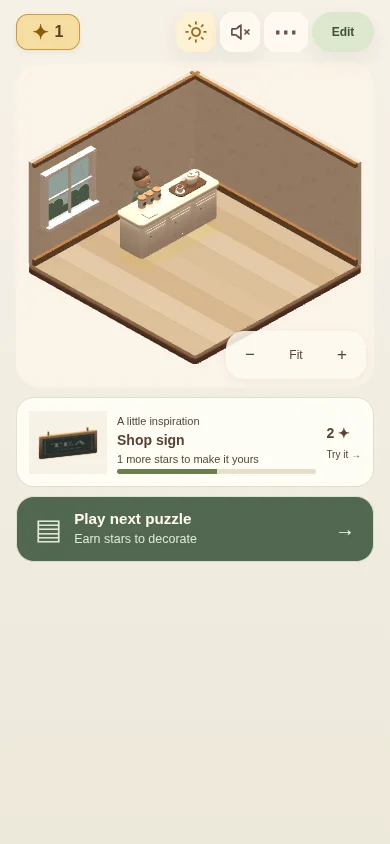
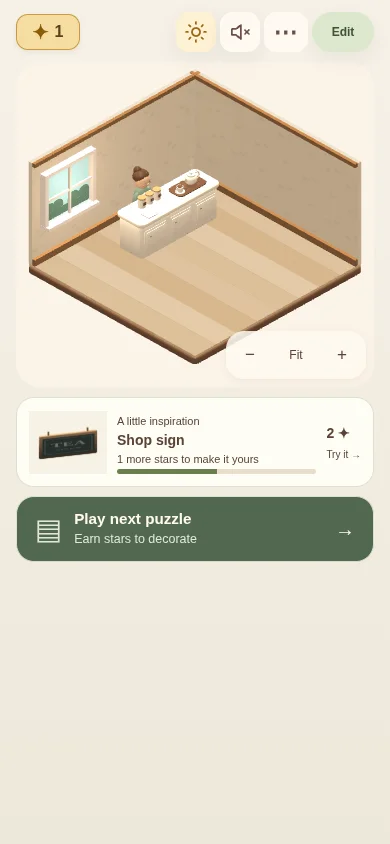
feat: finish keeper idle and cozy room lighting (0.2.2-preview.2)

diff --git a/src/shop/diorama.ts b/src/shop/diorama.ts
@@ -1,3 +1,4 @@
+import { animateEditionKeeper } from "./edition-art";
 import { isSecondEdition } from "../game/mode";
 import { StandardMaterial } from "@babylonjs/core/Materials/standardMaterial";
 import { Engine } from "@babylonjs/core/Engines/engine";
@@ -226,7 +227,12 @@ export class Diorama {
         material.emissiveColor = Color3.FromHexString(C.gold).scale(night ? 0.65 : 0.22);
       }
     }
-    this.windowLight.intensity = night ? 0.85 : 0;
+    this.windowLight.intensity = isSecondEdition ? (night ? 0.52 : 0.32) : night ? 0.85 : 0;
+    if (isSecondEdition) {
+      this.windowLight.diffuse = Color3.FromHexString(night ? "#b3c7ed" : "#ffe8c6");
+      this.hemi.groundColor = Color3.FromHexString(night ? "#535568" : "#b7a28e");
+      this.shadows.setDarkness(night ? 0.58 : 0.68);
+    }
     this.sun.diffuse = Color3.FromHexString(night ? "#9aafe0" : "#ffedc7");
     this.updateLamp();
   }
@@ -570,6 +576,7 @@ export class Diorama {
     if (this.tweens.length || this.walk) this.lampShadowsDirty = true;
     this.elapsed += dt;
     this.tickTraffic(dt);
+    if (isSecondEdition && this.customer) animateEditionKeeper(this.customer,this.elapsed,!this.edit && !this.reducedMotion.matches && !document.hidden && this.customer.isEnabled());
     for (const mesh of this.steam) {
       mesh.setEnabled(!this.reducedMotion.matches);
       if (this.reducedMotion.matches) continue;
@@ -610,9 +617,9 @@ export class Diorama {
 
     const wantWarm = this.shop.finaleSeen || Boolean(this.walk) || shopComplete(this.shop) ? 1 : this.shop.owned.includes("lamp") ? 0.35 : 0;
     this.warm += (wantWarm - this.warm) * Math.min(1, dt * 1.4);
-    this.hemi.intensity = this.night ? 0.52 : 0.72 + this.warm * 0.16;
-    this.sun.intensity = this.night ? 0.22 : 0.70 + this.warm * 0.12;
-    this.hemi.diffuse = this.night ? new Color3(0.72, 0.79, 1) : Color3.Lerp(new Color3(1, 0.9, 0.82), new Color3(1, 0.86, 0.7), this.warm);
+    this.hemi.intensity = isSecondEdition ? (this.night ? 0.57 : 0.88 + this.warm * 0.08) : this.night ? 0.52 : 0.72 + this.warm * 0.16;
+    this.sun.intensity = isSecondEdition ? (this.night ? 0.18 : 0.62 + this.warm * 0.08) : this.night ? 0.22 : 0.70 + this.warm * 0.12;
+    this.hemi.diffuse = isSecondEdition ? Color3.FromHexString(this.night ? "#bbc8e6" : "#fff0dc") : this.night ? new Color3(0.72, 0.79, 1) : Color3.Lerp(new Color3(1, 0.9, 0.82), new Color3(1, 0.86, 0.7), this.warm);
     this.updateLamp();
     this.scene.render();
   }

diff --git a/src/shop/edition-art.ts b/src/shop/edition-art.ts
@@ -110,7 +110,14 @@ export function buildEditionKeeper(scene:Scene):TransformNode{
  soft(scene,'apron',root,cream,.28,.43,.06,.04,0,.64,.18);soft(scene,'apron-pocket',root,coat,.13,.1,.018,.015,0,.6,.218);
  for(const x of [-.22,.22]){const a=orb(scene,'sleeve',root,coat,.09,x,.7,.03,.8,1.8,.85);a.rotation.z=x<0?-.3:.3;orb(scene,'hand',root,skin,.065,x,.53,.09);}
  const eyes=mat(scene,'eyes',E.ink),cheek=mat(scene,'cheek','#d9917c');for(const x of [-.065,.065])orb(scene,'eye',root,eyes,.016,x,1.13,.19,.7,1,.4);for(const x of [-.12,.12])orb(scene,'cheek',root,cheek,.032,x,1.075,.166,1,.55,.25);
- orb(scene,'nose',root,skin,.025,0,1.09,.205);root.scaling.setAll(1.12);return root;
+ orb(scene,'nose',root,skin,.025,0,1.09,.205);
+ const headRig=new TransformNode('keeper-head-idle',scene);headRig.parent=root;headRig.position.y=1;
+ const faceNames=new Set(['head','hair-cap','hair-bun','eye','cheek','nose']);
+ const eyeMeshes=root.getChildMeshes().filter(mesh=>mesh.name==='eye');
+ for(const mesh of root.getChildMeshes())if(faceNames.has(mesh.name)){mesh.parent=headRig;mesh.position.y-=1;}
+ const body=root.getChildMeshes().find(mesh=>mesh.name==='body')!;
+ root.metadata={keeperIdle:{head:headRig,eyes:eyeMeshes,body,bodyY:body.scaling.y,eyeY:eyeMeshes.map(eye=>eye.scaling.y)}};
+ root.scaling.setAll(1.12);return root;
 }
 export function decorateEditionRoom(scene:Scene,room:TransformNode):TransformNode{
  const trim=mat(scene,'room-joinery',E.cream),wood=mat(scene,'room-foundation',E.dark);
@@ -121,3 +128,14 @@ export function decorateEditionRoom(scene:Scene,room:TransformNode):TransformNod
  return finish;
 }
 export function editionFloorMaterial(scene:Scene):StandardMaterial{const m=mat(scene,'pale-oak','#ffffff',.04);m.diffuseTexture=editionOakTexture(scene);return m;}
+
+/** Small local gestures leave the keeper's placement, feet and serving direction fixed. */
+export function animateEditionKeeper(root:TransformNode,time:number,active:boolean):void {
+ const rig=root.metadata?.keeperIdle;if(!rig)return;
+ rig.head.rotation.y=active?Math.sin(time*.55)*.065:0;
+ rig.head.rotation.x=active?Math.sin(time*.85)*.018:0;
+ rig.body.scaling.y=rig.bodyY*(active?1+Math.sin(time*1.6)*.008:1);
+ const phase=time%6.5;
+ const blink=active&&phase<.18?1-.9*Math.sin(phase/.18*Math.PI):1;
+ rig.eyes.forEach((eye:{scaling:{y:number}},i:number)=>{eye.scaling.y=rig.eyeY[i]*blink;});
+}

diff --git a/src/game/version.ts b/src/game/version.ts
@@ -1,1 +1,1 @@
-export const APP_VERSION = "0.2.2-preview.1";
+export const APP_VERSION = "0.2.2-preview.2";

diff --git a/docs/ARCHITECTURE.md b/docs/ARCHITECTURE.md
@@ -2,9 +2,9 @@
 
 **Released: [Decopu 0.2.1](https://elbafo.github.io/tea-shop/).** [PR #17](https://github.com/ElBafo/tea-shop/pull/17) merged as `2df365fd0921835cd2d647c3277d026b682f821b`; [Pages run 42128359597](https://github.com/ElBafo/tea-shop/actions/runs/42128359597) passed. Drag controls, refined puzzle artwork and the visual first-puzzle guide are live. Existing production progress is preserved; there is no new reset or storage namespace.
 
-## Starting-room preview — 0.2.2-preview.1
+## Starting-room preview — 0.2.2-preview.2
 
-`ShopVisuals.starterBench` owns temporary scenery under the room node. `positionShopkeeper` reuses the existing keeper, showing the bench only before counter ownership, outside Edit, and when `canPlace` accepts the default counter footprint and rear aisle. Owned/stored counters suppress it. No inventory/save keys change. Steam uses the existing frame loop and reduced-motion handling; the new geometry adds no lights or timers. Separate sky, outdoor greenery, glass and frame depths remove the old coplanar window faces. Day/night updates the backdrop material; base glass clarity no longer depends on purchasing paint. All changes are scoped to the second edition.
+`ShopVisuals.starterBench` owns temporary scenery under the room node. `positionShopkeeper` reuses the existing keeper, showing the bench only before counter ownership, outside Edit, and when `canPlace` accepts the default counter footprint and rear aisle. Owned/stored counters suppress it. No inventory/save keys change. Preview.2 adds a keeper head pivot, breathing and blink poses through the existing render tick, resetting during Edit/reduced motion. Existing ambient, sunlight and window-light settings are rebalanced for warmer daytime fill and clearer cool nights; no additional lights or continuous lamp-shadow refresh is added. Steam uses the existing frame loop and reduced-motion handling; the new geometry adds no lights or timers. Separate sky, outdoor greenery, glass and frame depths remove the old coplanar window faces. Day/night updates the backdrop material; base glass clarity no longer depends on purchasing paint. All changes are scoped to the second edition.
 
 ## Runtime
 

diff --git a/docs/RELEASES.md b/docs/RELEASES.md
@@ -12,6 +12,10 @@ Versions identify reviewable builds. Each entry links to its [roadmap](ROADMAP.m
 - Record release scope, save compatibility, validation, PR/commit and deployment status. Do not infer deployed status from a successful local build.
 - Historical work before this record is grouped under the existing `0.1.0` package baseline. Its version was not consistently displayed in the app; the entries below do not invent earlier visible version labels or release dates.
 
+## 0.2.2-preview.2 — final keeper and lighting polish; in validation
+
+Owner-approved continuation of PR #18. The keeper gently turns/nods, breathes and blinks while keeping its placement and serving direction fixed. Edit and reduced motion restore a neutral pose. The existing lighting rig gains softer warm day fill, restrained sunlight, readable cool night fill and a day/night window light. Paid lamps remain warm accents. No added lights, timers, storage or currency changes. Main remains 0.2.1. Production build and package verification passed (`work/final-room-build.log`, `work/final-room-verify.log`). The browser suite passed with zero exceptions, including idle movement without placement drift, neutral Edit/reduced-motion poses, unchanged light count, full starter/counter transitions and save preservation. Day, night, purchase, small phone and desktop screenshots were reviewed. Physical iPhone performance remains unmeasured. Preview deployment is pending.
+
 ## 0.2.2-preview.1 — welcoming starting room; hosted for review
 
 An owner-approved first-impression pass adds a temporary serving workbench, tea props and shopkeeper before the first counter purchase, with an unmistakable window and lighter bare plaster. The bench grants no inventory item or stars. It hides in Edit and where existing furniture blocks its footprint/aisle; counter previews show the regular keeper, cancellation restores the opening, and owned/stored counters prevent the starter fixture returning. Main remains 0.2.1 pending review.

diff --git a/README.md b/README.md
@@ -6,7 +6,7 @@ A cozy sorting puzzle that earns stars for a small isometric tea shop. Fill jars
 
 **Released: [Decopu 0.2.1](https://elbafo.github.io/tea-shop/).** [PR #17](https://github.com/ElBafo/tea-shop/pull/17) merged as `2df365fd0921835cd2d647c3277d026b682f821b`; [Pages run 42128359597](https://github.com/ElBafo/tea-shop/actions/runs/42128359597) passed. Drag controls, refined puzzle artwork and the visual first-puzzle guide are live. Existing production progress is preserved; there is no new reset or storage namespace.
 
-**Hosted preview: 0.2.2-preview.1.** A welcoming starting workbench and shopkeeper, clearer window and lighter bare plaster. [Try the fresh-start preview](https://elbafo.github.io/tea-shop/preview/?edition=2&tour=1) (Start → Explore on my own). [PR #18](https://github.com/ElBafo/tea-shop/pull/18) and [deployment evidence](docs/RELEASES.md) are ready for review. Main stays at 0.2.1 until approval.
+**Preview update: 0.2.2-preview.2.** A welcoming workbench, gently animated shopkeeper, clearer window and rebalanced day/night lighting. [Try the fresh-start preview](https://elbafo.github.io/tea-shop/preview/?edition=2&tour=1) (Start → Explore on my own). [PR #18](https://github.com/ElBafo/tea-shop/pull/18) and [deployment evidence](docs/RELEASES.md) are ready for review. Main stays at 0.2.1 until approval.
 
 ## Progress since the 0.2.0 fresh start
 

diff --git a/docs/ROADMAP.md b/docs/ROADMAP.md
@@ -2,7 +2,9 @@
 
 Record every agreed product decision here in the same work session. Distinguish current behavior, agreed plans and open decisions. Product direction lives in [PRODUCT.md](PRODUCT.md); detailed art criteria live in [POLISH_PLAN.md](POLISH_PLAN.md).
 
-## Current priority — 0.2.2-preview.1
+## Current priority — 0.2.2-preview.2
+
+Owner approved finishing the keeper idle animation and broader lighting pass. Add gentle head turns, breathing and blinking with a neutral pose during Edit/reduced motion. Rebalance existing ambient, sun and window lights for warmer day fill and readable cool nights; retain paid lamps as warm accents without extra lights or shadow-map refresh loops. Preserve progress and counter placement. Production build and package verification passed (`work/final-room-build.log`, `work/final-room-verify.log`). The browser suite passed with zero exceptions, including idle movement without placement drift, neutral Edit/reduced-motion poses, unchanged light count, full starter/counter transitions and save preservation. Day, night, purchase, small phone and desktop screenshots were reviewed. Physical iPhone performance remains unmeasured. Preview deployment is pending.
 
 ### A welcoming starting room
 
